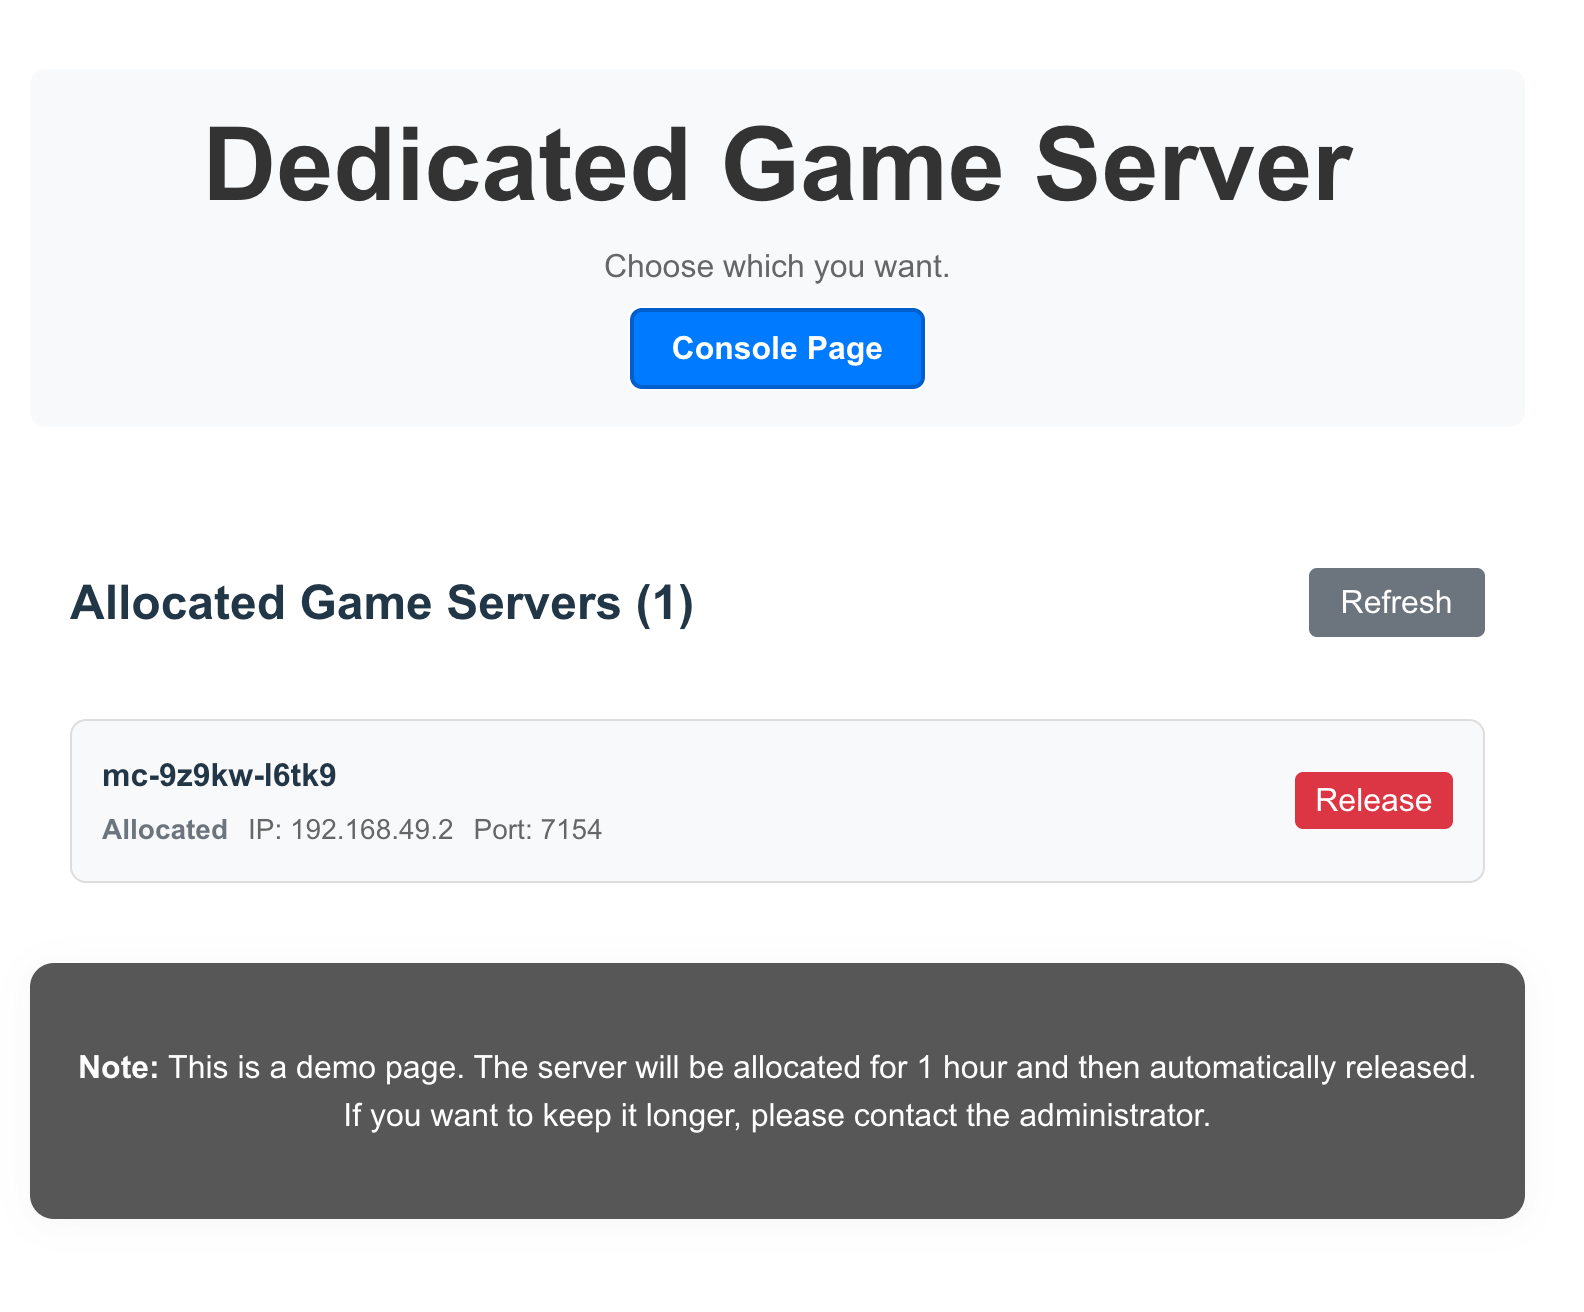
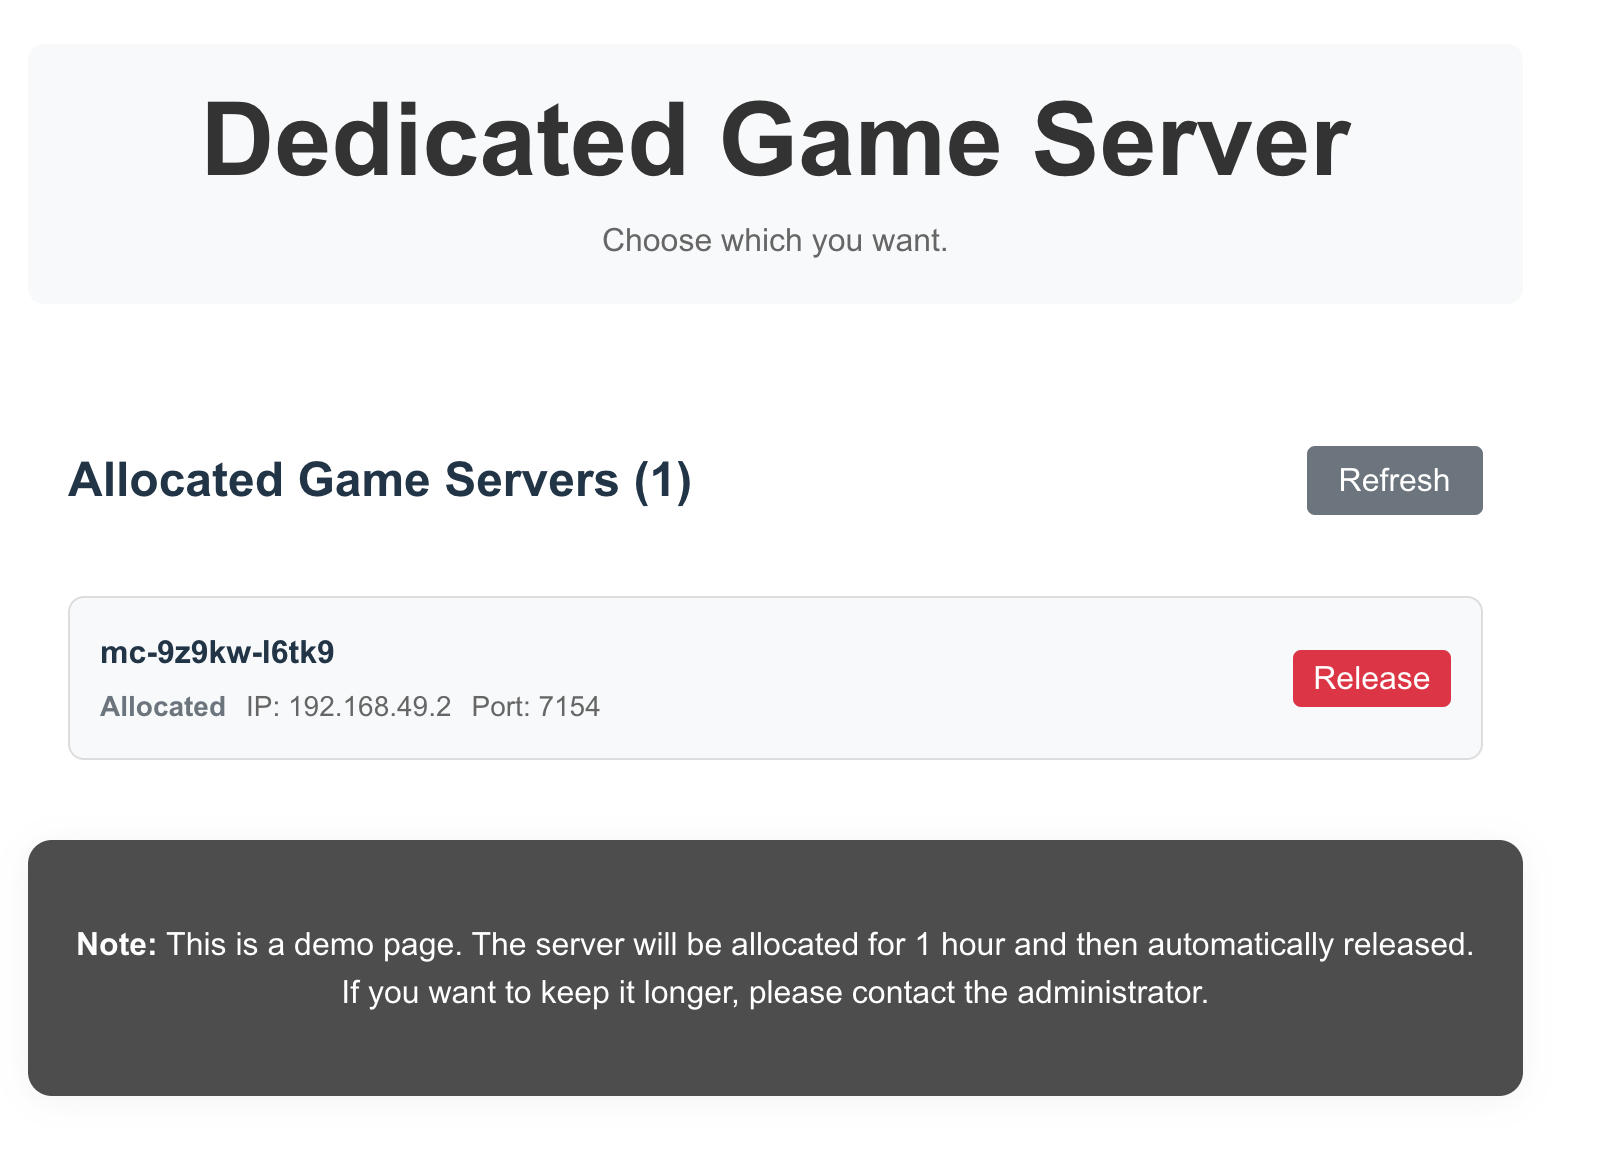
console page remove console page button

diff --git a/client/src/App.tsx b/client/src/App.tsx
@@ -4,7 +4,7 @@ import { usePodWatchSocket } from './usePodSocket';
 import MainPage from './components/MainPage';
 import OrderPage from './components/OrderPage';
 import React from 'react';
-import { BrowserRouter, Routes, Route, useNavigate } from 'react-router-dom';
+import { BrowserRouter, Routes, Route, useNavigate, useLocation } from 'react-router-dom';
 import SelectPage from './components/SelectPage';
 
 // 示例数据
@@ -19,11 +19,12 @@ const sampleList = [
 
 function MainApp() {
   const navigate = useNavigate();
+  const location = useLocation();
   // 监听 Pod 事件，用于实时更新
-  usePodWatchSocket((event) => {
-    console.log('Pod event received:', event);
-    // 可以在这里处理特定的事件类型
-  });
+  // usePodWatchSocket((event) => {
+  //   console.log('Pod event received:', event);
+  //   // 可以在这里处理特定的事件类型
+  // });
 
   return (
     <div style={{ 
@@ -43,6 +44,7 @@ function MainApp() {
         <p style={{ margin: '10px 0 0 0', color: '#666' }}>
           Choose which you want.
         </p>
+        { location.pathname !== '/info/' && (
         <button
           style={{
             marginTop: '10px',
@@ -60,6 +62,7 @@ function MainApp() {
         >
           Console Page
         </button>
+        )}
       </header>
       <main>
         <Routes>
